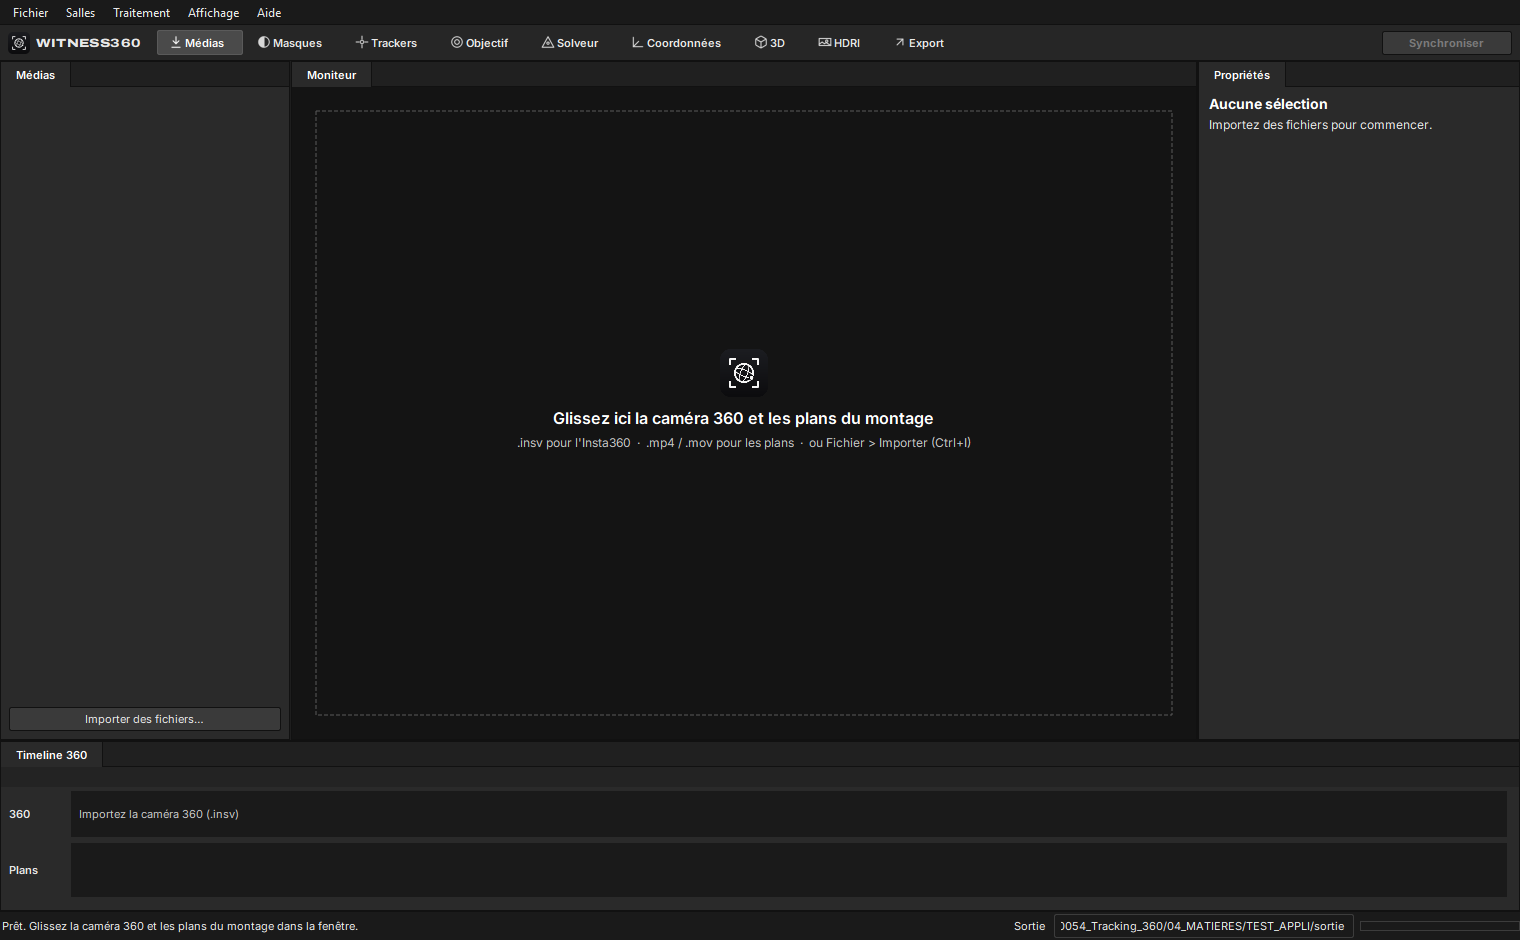
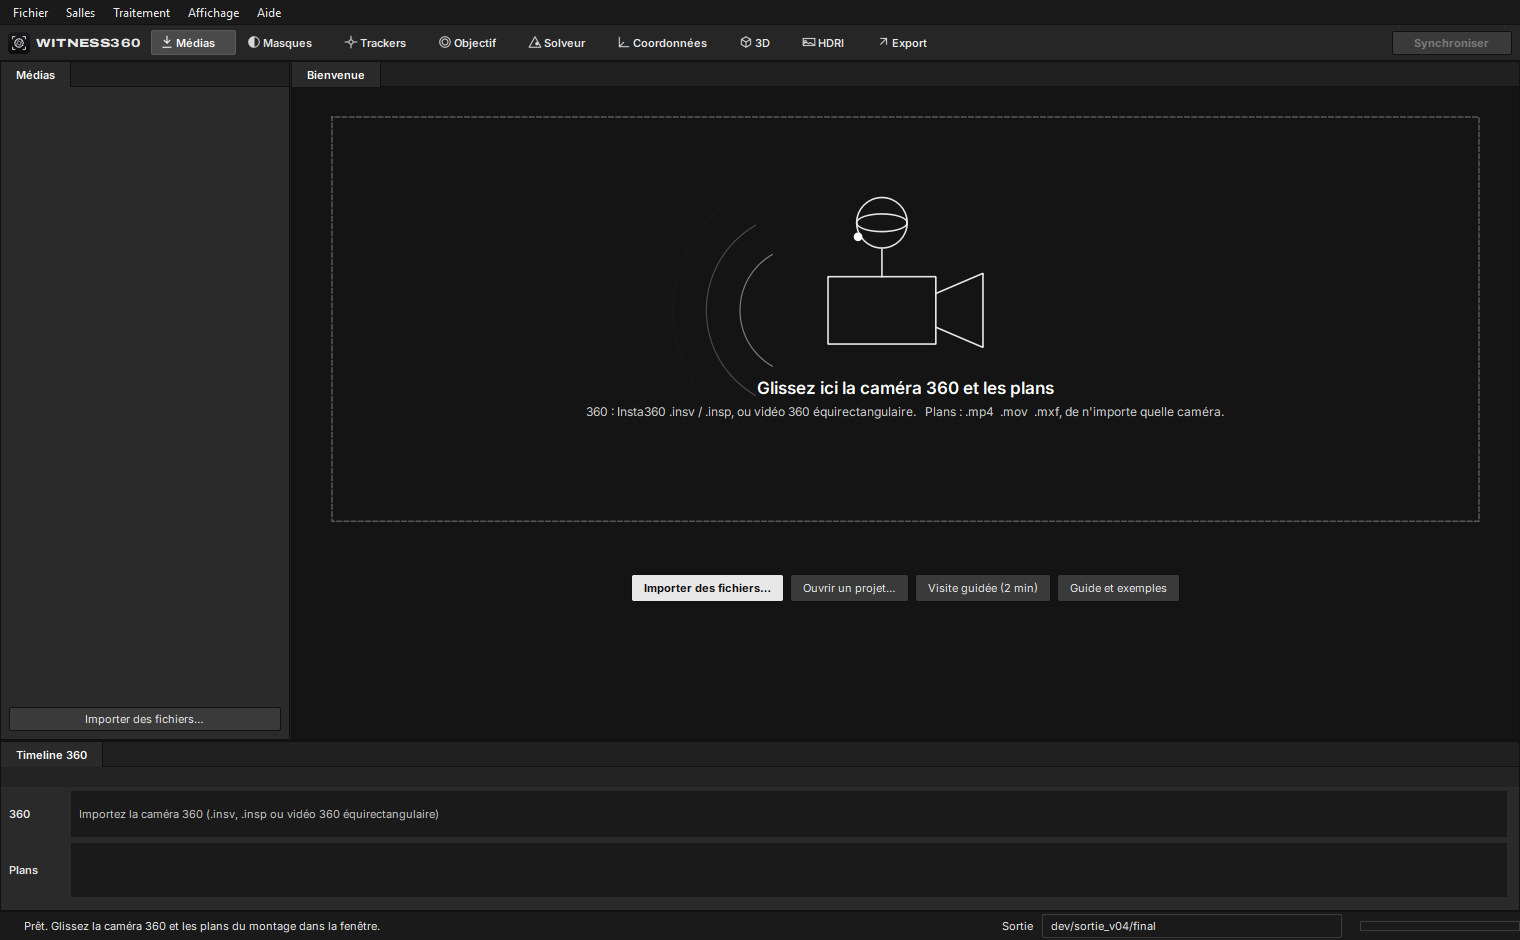
witness360 0.4 : page mise à jour (tout tournage, visite guidée, nouvelles salles, captures)

diff --git a/README.md b/README.md
@@ -7,7 +7,11 @@
 
 # witness360
 
-Tracking caméra aidé par une caméra 360 « témoin » montée sur le rig, livré dans Blender.
+Tracking caméra aidé par une caméra 360 « témoin » montée sur le rig, livré dans Blender avec un HDRI de la scène.
+
+La caméra 360 voit tout autour du rig et enregistre son gyroscope. Fixée à la caméra du plan, elle donne la rotation
+exacte du rig à chaque image, la verticale, et l'éclairage complet de la scène. witness360 s'en sert pour tracker le
+plan, résoudre la caméra et créer un HDRI étalonné sur le plan, puis envoie le tout dans Blender.
 
 Ce dépôt sert à distribuer les versions compilées de witness360 (Windows et Mac). Le code source est dans un dépôt privé.
 
@@ -26,166 +30,176 @@ Si Windows affiche « Windows a protégé votre ordinateur », cliquez sur « In
 **Mac** : décompressez le zip et glissez `witness360.app` dans `Applications`. L'appli n'est pas encore signée par Apple :
 au premier lancement, faites clic droit sur l'appli puis « Ouvrir » (ou Réglages Système > Confidentialité et sécurité > « Ouvrir quand même »).
 
-## Mises à jour automatiques
+## Premiers pas
 
-Au démarrage, witness360 regarde s'il existe une version plus récente sur cette page. Si oui, elle propose de l'installer :
-elle la télécharge, vérifie son empreinte SHA-256 (`SHA256SUMS.txt`), se ferme et redémarre sur la nouvelle version.
-Vérification manuelle : menu Aide > Rechercher les mises à jour.
+Au premier lancement, une **visite guidée** de 2 minutes montre le chemin, salle par salle. Elle reste dans le menu
+Aide, avec le **guide complet** (F12) : principe, matériel au tournage, formats, exemples de rigs, lecture des
+résultats, dépannage et raccourcis.
+
+![Visite guidée](captures/00_visite_guidee.png)
+
+Les salles se suivent dans l'ordre du travail (F1 à F9). La prochaine salle conseillée s'anime, une coche marque les
+salles faites. Chaque salle a son **aide** (bouton « ? », Maj+F1) : étapes, un exemple chiffré et des conseils.
+Chaque réglage a une bulle d'aide avec un exemple.
+
+![Accueil](captures/01_accueil.png)
+
+## Ce qu'il faut au tournage
+
+- Le 360 vissé sur le rig de la caméra (griffe flash, poignée, cage) : il ne doit pas bouger par rapport à la caméra
+  pendant la prise.
+- Le son enregistré par les deux caméras (le micro interne suffit), pour la synchro.
+- Le 360 en vidéo non stabilisée (le .insv d'origine).
+- Une focale fixe pendant le plan (pas de zoom).
+- Utile : la position du 360 par rapport à la caméra et la hauteur de la caméra, mesurées au mètre ruban.
+
+## Formats pris en charge
+
+| Élément | Formats |
+|---|---|
+| Caméra 360 | Insta360 .insv (un fichier, deux flux ou deux fichiers …_00_ / …_10_) et photos .insp ; vidéos et images 360 équirectangulaires de toute marque (export Insta360 Studio, GoPro Player…). Le gyroscope est lu dans les .insv. |
+| Plans | .mp4, .mov, .mxf, .m4v de toute caméra, toute cadence, toute résolution, rushes longs compris |
+| Courbes de couleur | Sony S-Log3 (S-Gamut3.Cine ou S-Gamut3), Panasonic V-Log, Canon Log 3, ARRI LogC3, Fujifilm F-Log, Apple Log, HLG, Rec.709 |
+| Métadonnées lues | Boîtiers Sony (boîtier, objectif, focale image par image, largeur du capteur), étiquettes QuickTime des autres caméras |
+| Sorties | Alembic .abc, Blender .blend (plaque, cadence, HDRI), HDRI .exr linéaire, projet .w360 |
+
+Rien n'est propre à un tournage dans l'appli : l'horloge et les axes du gyroscope, l'angle du rig, la latence de la
+caméra et l'angle de vue du plan sont mesurés sur les fichiers.
 
 ## Exemple : une scène réelle, pas à pas
 
-Scène de test : 2 plans tournés à la Sony FX3 en 4K (3840 × 2160, 25 i/s) avec une Insta360 ONE X2 montée
+Scène de test : 2 plans tournés à la Sony FX3 en 4K (3840 × 2160, 25 i/s, S-Log3) avec une Insta360 ONE X2 vissée
 sur le même rig. Le fichier 360 dure 9 min 53 s. Les plans durent 11 s et 9 s.
 
 ### 1. Importer et synchroniser
 
-On glisse le `.insv` et les deux plans dans la fenêtre, puis on clique sur **Synchroniser**.
-witness360 retrouve chaque plan dans la 360 par le son et le place sur la timeline 360, avec sa vignette.
+On glisse le fichier 360 et les plans dans la fenêtre, puis on clique sur **Synchroniser** (Ctrl+R).
+witness360 retrouve chaque plan dans la 360 par le son et le place sur la timeline 360.
 
 ![Médias et synchro](captures/02_medias_synchro.png)
 
-| Plan | Début retrouvé dans la 360 | Images 360 | Contrôle | Fiabilité |
-|---|---|---|---|---|
-| PLAN_1 (296 images) | 00:03:03:11 (183,542 s) | 5500,8 → 5855,6 | 3 morceaux à ±0,5 ms | Sûre |
-| PLAN_2 (238 images) | 00:04:04:09 (244,540 s) | 7328,9 → 7614,2 | 3 morceaux à ±1,9 ms | Sûre |
+| Plan | Début retrouvé dans la 360 | Contrôle | Fiabilité |
+|---|---|---|---|
+| PLAN_1 (296 images) | 00:03:03:11 (183,542 s) | 3 morceaux à ±0,5 ms | Sûre |
+| PLAN_2 (238 images) | 00:04:04:09 (244,540 s) | 3 morceaux à ±1,9 ms | Sûre |
 
-Le contrôle recale 3 morceaux de chaque plan séparément. Si l'écart entre eux reste sous une demi-image, la synchro est
-classée « Sûre ». Sinon, elle passe en « À vérifier ».
+Le contrôle recale 3 morceaux de chaque plan séparément. S'ils retombent au même endroit à moins d'une demi-image près,
+la synchro est « Sûre ». Un rush plus long que le 360, ou qui ne le recouvre qu'en partie, est accepté : sa
+**plage de travail** se cale sur la partie couverte par le 360 et se règle dans Propriétés. Sans son commun, la
+synchro se fait à la main.
 
 ### 2. Tracker le plan
 
-Salle **Trackers** : on lance l'auto-track sur le plan choisi.
-Les points sont suivis image par image, avec un contrôle aller-retour.
-La couleur dit combien de temps chaque point a été suivi :
+Salle **Trackers** : l'auto-track suit des centaines de points image par image, avec un contrôle aller-retour.
+Couleur : vert = suivi 40 images ou plus, jaune = 20 à 39, rouge = moins de 20. La timeline montre le nombre de
+trackers actifs sur chaque image.
 
-- vert : 40 images ou plus ;
-- jaune : de 20 à 39 images ;
-- rouge : moins de 20 images.
+![Trackers](captures/03_trackers_quad.png)
 
-En bas, la timeline montre le nombre de trackers actifs sur chaque image.
+L'aide de la salle donne les étapes, un exemple chiffré et les réglages à toucher selon le plan :
 
-![Trackers, vue quadruple](captures/03_trackers_quad.png)
+![Aide de la salle Trackers](captures/04_trackers_aide.png)
 
-Sur PLAN_1, l'auto-track garde 4034 trackers, avec 100 à 470 trackers actifs par image (349 en moyenne).
-Un tracker est suivi 26 images en moyenne, et jusqu'à 116.
-Les points sont suivis sur une image réduite à 960 px de large, plus robuste au flou des panoramiques, puis reportés
-sur le plan 4K. Sur cette scène, suivre en pleine résolution ne réduisait pas l'erreur du solve.
+La salle **Masques** exclut du tracking les zones qui ne suivent pas le décor (personnes, reflets, écran).
 
-La vue simple agrandit l'image. Vous pouvez y zoomer (50 à 200 %), afficher un seul canal (R, V, B, luminance) et
-afficher ou masquer les traînées.
+### 3. Objectif : focale et angle de vue
 
-![Trackers, vue simple](captures/04_trackers_simple.png)
+Salle **Objectif** : caméra, largeur du capteur et focale, lues dans les métadonnées quand elles existent.
+**Mesurer sur le 360** retrouve le plan dans l'image 360 à plusieurs instants : on en tire l'angle de vue réel du
+plan, donc la focale, et l'angle exact du rig.
 
-### 3. Résoudre la caméra (solve)
+![Objectif mesuré sur le 360](captures/05_objectif.png)
 
-Salle **Solveur**, bouton **Résoudre** (Maj+G).
-
-- **Rotation** : le gyroscope du 360 donne la rotation du rig à chaque image. L'appli cale elle-même le
-  gyroscope sur l'image du plan. Sur cette scène, l'image FX3 arrive 138 ms après le son, sur les deux plans.
-- **Position et points** : la position de la caméra et celle des points viennent des trackers (triangulation, PnP,
-  ajustement de faisceaux).
-- **Verticale** : elle vient de l'accéléromètre du 360.
-- **Échelle** : elle vient de la hauteur de la caméra au-dessus du sol.
-
-L'erreur s'affiche en pixels du plan, dans le panneau et image par image (courbe jaune de la timeline).
-Les trackers prennent la couleur de leur erreur. Les seuils suivent la largeur du plan :
-
-| Couleur | Plan de 1920 px | Plan 4K (3840 px) |
+| Plan | Angle de vue mesuré sur le 360 | Mesure de référence |
 |---|---|---|
-| vert | 1,5 px ou moins | 3 px ou moins |
-| jaune | 3 px ou moins | 6 px ou moins |
-| rouge | plus de 3 px | plus de 6 px |
-| gris | pas de position 3D | pas de position 3D |
+| PLAN_1 | 55,96° | 55,7° |
+| PLAN_2 | 52,47° | 52,8° |
 
-Les trackers posés sur la personne qui bouge sont rejetés : ils restent gris.
+### 4. Résoudre la caméra (solve)
 
-![Solve, vue quadruple](captures/05_solveur_quad.png)
+Salle **Solveur**, bouton **Résoudre** (Maj+G). Le gyroscope du 360 donne la rotation du rig à chaque image ; l'appli
+cale seule son horloge sur les trackers du plan (sur cette scène, l'image de la caméra arrive 132 à 137 ms après le
+son). Les trackers donnent la position de la caméra et des points. L'accéléromètre donne la verticale ; la hauteur
+de la caméra donne l'échelle.
 
-### 4. Nettoyer les trackers puis affiner
+![Solve](captures/06_solveur_quad.png)
 
-**Nettoyer les trackers** (Maj+C) retire, chacun avec son seuil :
+**Nettoyer les trackers** (Maj+C) retire les mauvaises images, les trackers à forte erreur, les trackers courts et les
+sauts, puis affine le solve : 2,91 px sur PLAN_1 et 2,08 px sur PLAN_2 (pixels 4K).
 
-- les mauvaises images d'un tracker ;
-- les trackers à forte erreur ;
-- les trackers courts ;
-- les trackers lointains ;
-- les sauts isolés.
+![Après nettoyage et affinage](captures/07_solveur_affine.png)
 
-Le solve est ensuite affiné. Sur PLAN_1, l'erreur passe de 4,57 px à 2,89 px (pixels 4K).
+Les trackers prennent la couleur de leur erreur (vert ≤ 3 px en 4K, jaune ≤ 6 px, rouge au-delà, gris sans position
+3D). La croix blanche est le point 3D reprojeté.
 
-![Après nettoyage et affinage](captures/06_solveur_affine.png)
+![Erreur par tracker](captures/08_erreurs_trackers.png)
 
-Dans la vue caméra, chaque tracker garde sa couleur d'erreur. La croix blanche est le point 3D reprojeté, et le trait
-montre l'écart avec le tracker.
+### 5. Placer la scène
 
-![Erreur par tracker](captures/07_erreurs_trackers.png)
+Salle **Coordonnées** : on clique des trackers dans la vue caméra, puis **Origine**, **Sol** (3 trackers ou plus),
+**Axe X** ou **Échelle** (distance réelle entre 2 trackers). Le repère est rejoué après chaque solve.
 
-### 5. Les deux caméras dans la scène 3D
+![Coordonnées](captures/09_coordonnees.png)
 
-Les vues 3D montrent :
+### 6. Les deux caméras en 3D
 
-- les points des trackers (×) ;
-- la trajectoire de la FX3 (trait plein) et celle du 360 (tirets) ;
-- les deux caméras à leur position.
+Les vues 3D montrent les points des trackers, la trajectoire de la caméra (trait plein) et celle du 360 (tirets).
+**F** ou un double-clic cadre le rig.
 
-**F** ou un double-clic cadre le rig ; ici, la FX3 et le 360 sont à 15,1 cm l'un de l'autre.
-Le choix **Caméra active** passe de la FX3 d'un plan à la caméra 360 témoin.
+![Caméra et 360 en 3D](captures/10_rig_camera_360.png)
 
-![Rig FX3 et 360](captures/08_rig_fx3_360.png)
+### 7. HDRI étalonné sur le plan
 
-### 6. HDRI de la scène, étalonné sur le plan
+Salle **HDRI** (Ctrl+H) : un HDRI `.exr` linéaire tiré du 360, à l'image choisie. Le rig est masqué
+automatiquement ; le 360 est comparé au plan pixel à pixel pour reprendre sa couleur et son exposition (un gris à 18 %
+vu par le plan vaut 0,18 dans l'HDRI). En orientation **Scène trackée**, l'HDRI est posé dans le repère de la caméra
+exportée : rien à tourner dans Blender.
 
-La salle **HDRI** (Ctrl+H) tire un HDRI `.exr` linéaire de la caméra 360, à l'image affichée dans la timeline :
+![HDRI](captures/11_hdri.png)
 
-- le rig, la caméra du plan, le moniteur et le câble sont détectés automatiquement (ils restent fixes dans
-  l'image 360) puis bouchés avec la lumière des alentours ;
-- le 360 est comparé au plan, à plusieurs images et pixel à pixel, pour reprendre sa couleur et son exposition.
-  Le plan est décodé en linéaire (S-Log3 / S-Gamut3.Cine pour la FX3, ou Rec.709) : un gris à 18 % vu par
-  le plan vaut 0,18 dans l'HDRI ;
-- en orientation **Scène trackée**, l'HDRI est posé dans le repère de la caméra exportée et recalé sur
-  l'image du plan. L'export Blender l'ajoute au monde du `.blend`, sans rotation à régler.
+Vérification sur PLAN_1 (rendu Cycles depuis la caméra exportée, monde seul) : l'HDRI retombe sur la plaque 4K à
+0,5 à 15 px près pour les éléments lointains, avec une lumière ×0,91 à ×1,04 dans les ombres, ×1,00 à ×1,05 dans les
+tons moyens et ×0,99 à ×1,02 dans les hautes lumières. PLAN_2, plus difficile (peu de décor commun entre le plan et
+le 360) : 35 à 68 px, tons moyens ×0,96 à ×0,97. L'opérateur qui tient le rig reste visible en bas de l'HDRI.
 
-Vérification sur PLAN_1 : rendu Cycles depuis la caméra exportée, avec le monde seul visible. Le rendu retombe
-sur la plaque 4K à 0 à 20 px près (environ 0,2°) pour les éléments lointains, avec un niveau de lumière ×0,98
-à ×1,03 dans les tons moyens. Sur PLAN_2, plus difficile (peu de détails communs entre le plan et le 360),
-l'écart est de 16 à 64 px 4K (0,3 à 1°) et la lumière de ×0,95 dans les tons moyens. Les objets proches se
-décalent par parallaxe, car le 360 est 15 cm au-dessus de la FX3. L'opérateur qui tient le rig reste visible
-en bas de l'HDRI.
+### 8. Export vers Blender
 
-![Salle HDRI](captures/09_hdri.png)
+**Exporter vers Blender** (Ctrl+E) écrit un `.abc` (caméra animée, 360 témoin, nuage de points) et un `.blend` (plaque
+en fond de caméra, cadence et résolution du plan, HDRI comme monde). Réimporté dans Blender, l'Alembic reprojette les
+trackers à 2,24 px sur PLAN_1 et 2,26 px sur PLAN_2 (médiane, pixels 4K).
 
-### 7. Export Alembic vers Blender
+![Export Blender](captures/12_export_blender.png)
 
-**Exporter vers Blender (.abc)** (Ctrl+E) lance Blender en arrière-plan. Il écrit :
+Le projet s'enregistre (Ctrl+S, fichier `.w360`) et se rouvre tel quel, médias compris si le dossier a été déplacé.
 
-- un `.abc` avec la caméra FX3 animée, le 360 témoin et le nuage de points ;
-- un `.blend` avec la plaque en fond de caméra et l'HDRI du plan comme monde.
+### 9. Mise à jour automatique
 
-Vérification : une fois réimporté dans Blender, l'Alembic reprojette les trackers à 2,23 px sur PLAN_1 et
-2,15 px sur PLAN_2 (médiane, pixels 4K). Le `.blend` est réglé en 3840 × 2160, avec la plaque 4K en fond.
-Dans Blender, réglez la scène à la cadence du plan (25 i/s) avant **Fichier > Importer > Alembic**, ou ouvrez
-directement le `.blend`.
+Au démarrage, witness360 regarde s'il existe une version plus récente sur cette page et propose de l'installer :
+elle la télécharge, vérifie son empreinte SHA-256 (`SHA256SUMS.txt`), se ferme et redémarre. Vérification manuelle :
+menu Aide > Rechercher les mises à jour.
 
-![Export Blender](captures/10_export_blender.png)
+![Mise à jour disponible](captures/13_mise_a_jour.png)
 
-### 8. Mise à jour automatique
+## Autres tournages testés
 
-Quand une nouvelle version est publiée ici, l'appli la propose au démarrage :
-
-![Mise à jour disponible](captures/11_mise_a_jour.png)
+| Cas | Résultat |
+|---|---|
+| Vidéo 360 équirectangulaire, sans gyroscope | Synchro, angle de vue (56,15°), solve sur l'image seule (1,73 px), HDRI et export |
+| Sony A7 IV, Rec.709, 12-24 mm, rushes de 4 à 15 min | Boîtier, objectif, focale et capteur lus ; le 360 retrouvé dans le seul rush qui le recouvre (±9 ms), les autres rejetés |
+| Caméra fixe, loin du rig | Pas assez de décor commun avec le 360 : l'appli le signale et sort un HDRI aux couleurs du 360 |
 
 ## Feuille de route
 
 | Version | Contenu |
 |---|---|
 | 0.1 | Import, synchro audio 360, auto-track, versions Windows et Mac, mise à jour automatique |
-| 0.2 | Solve caméra aidé par le gyroscope 360, nettoyage des trackers, affinage, vues 3D avec la FX3 et le 360, export Alembic vers Blender |
-| 0.2.1 | Plans 4K de bout en bout (erreurs en pixels 4K, `.blend` en 3840 × 2160), caméra recentrée d'un demi-pixel |
-| 0.3 | HDRI tiré du 360 : rig masqué automatiquement, couleur et exposition étalonnées sur le plan (S-Log3 ou Rec.709), posé dans la scène Blender |
-| Prochaine | Tracking directement sur l'image 360 (trackers tout autour du rig), solve combiné des deux caméras |
-| Ensuite | Masques (opérateur, aussi retiré de l'HDRI), objectif FX3 (métadonnées, distorsion) |
+| 0.2 | Solve caméra aidé par le gyroscope 360, nettoyage des trackers, vues 3D, export Alembic vers Blender |
+| 0.2.1 | Plans 4K de bout en bout |
+| 0.3 | HDRI tiré du 360, étalonné sur le plan, posé dans la scène Blender |
+| 0.4 | Tout tournage : calages mesurés sur les fichiers, toute caméra de plan et toute caméra 360, 9 courbes de couleur, rushes longs, projets. Salles Objectif, Coordonnées et Masques. Visite guidée, aide et exemples dans chaque salle, icônes animées |
+| Prochaine | Opérateur retiré de l'HDRI, distorsion des objectifs, tracking directement sur l'image 360 |
 
 ## Configuration
 
 - Windows 10 ou 11 (64 bits), ou Mac Apple Silicon sous macOS 12 ou plus récent.
-- Caméra 360 : Insta360 ONE X2, fichiers `.insv` non stabilisés.
+- Blender (facultatif, pour écrire l'Alembic et le .blend ; sinon l'appli écrit le script à lancer).
